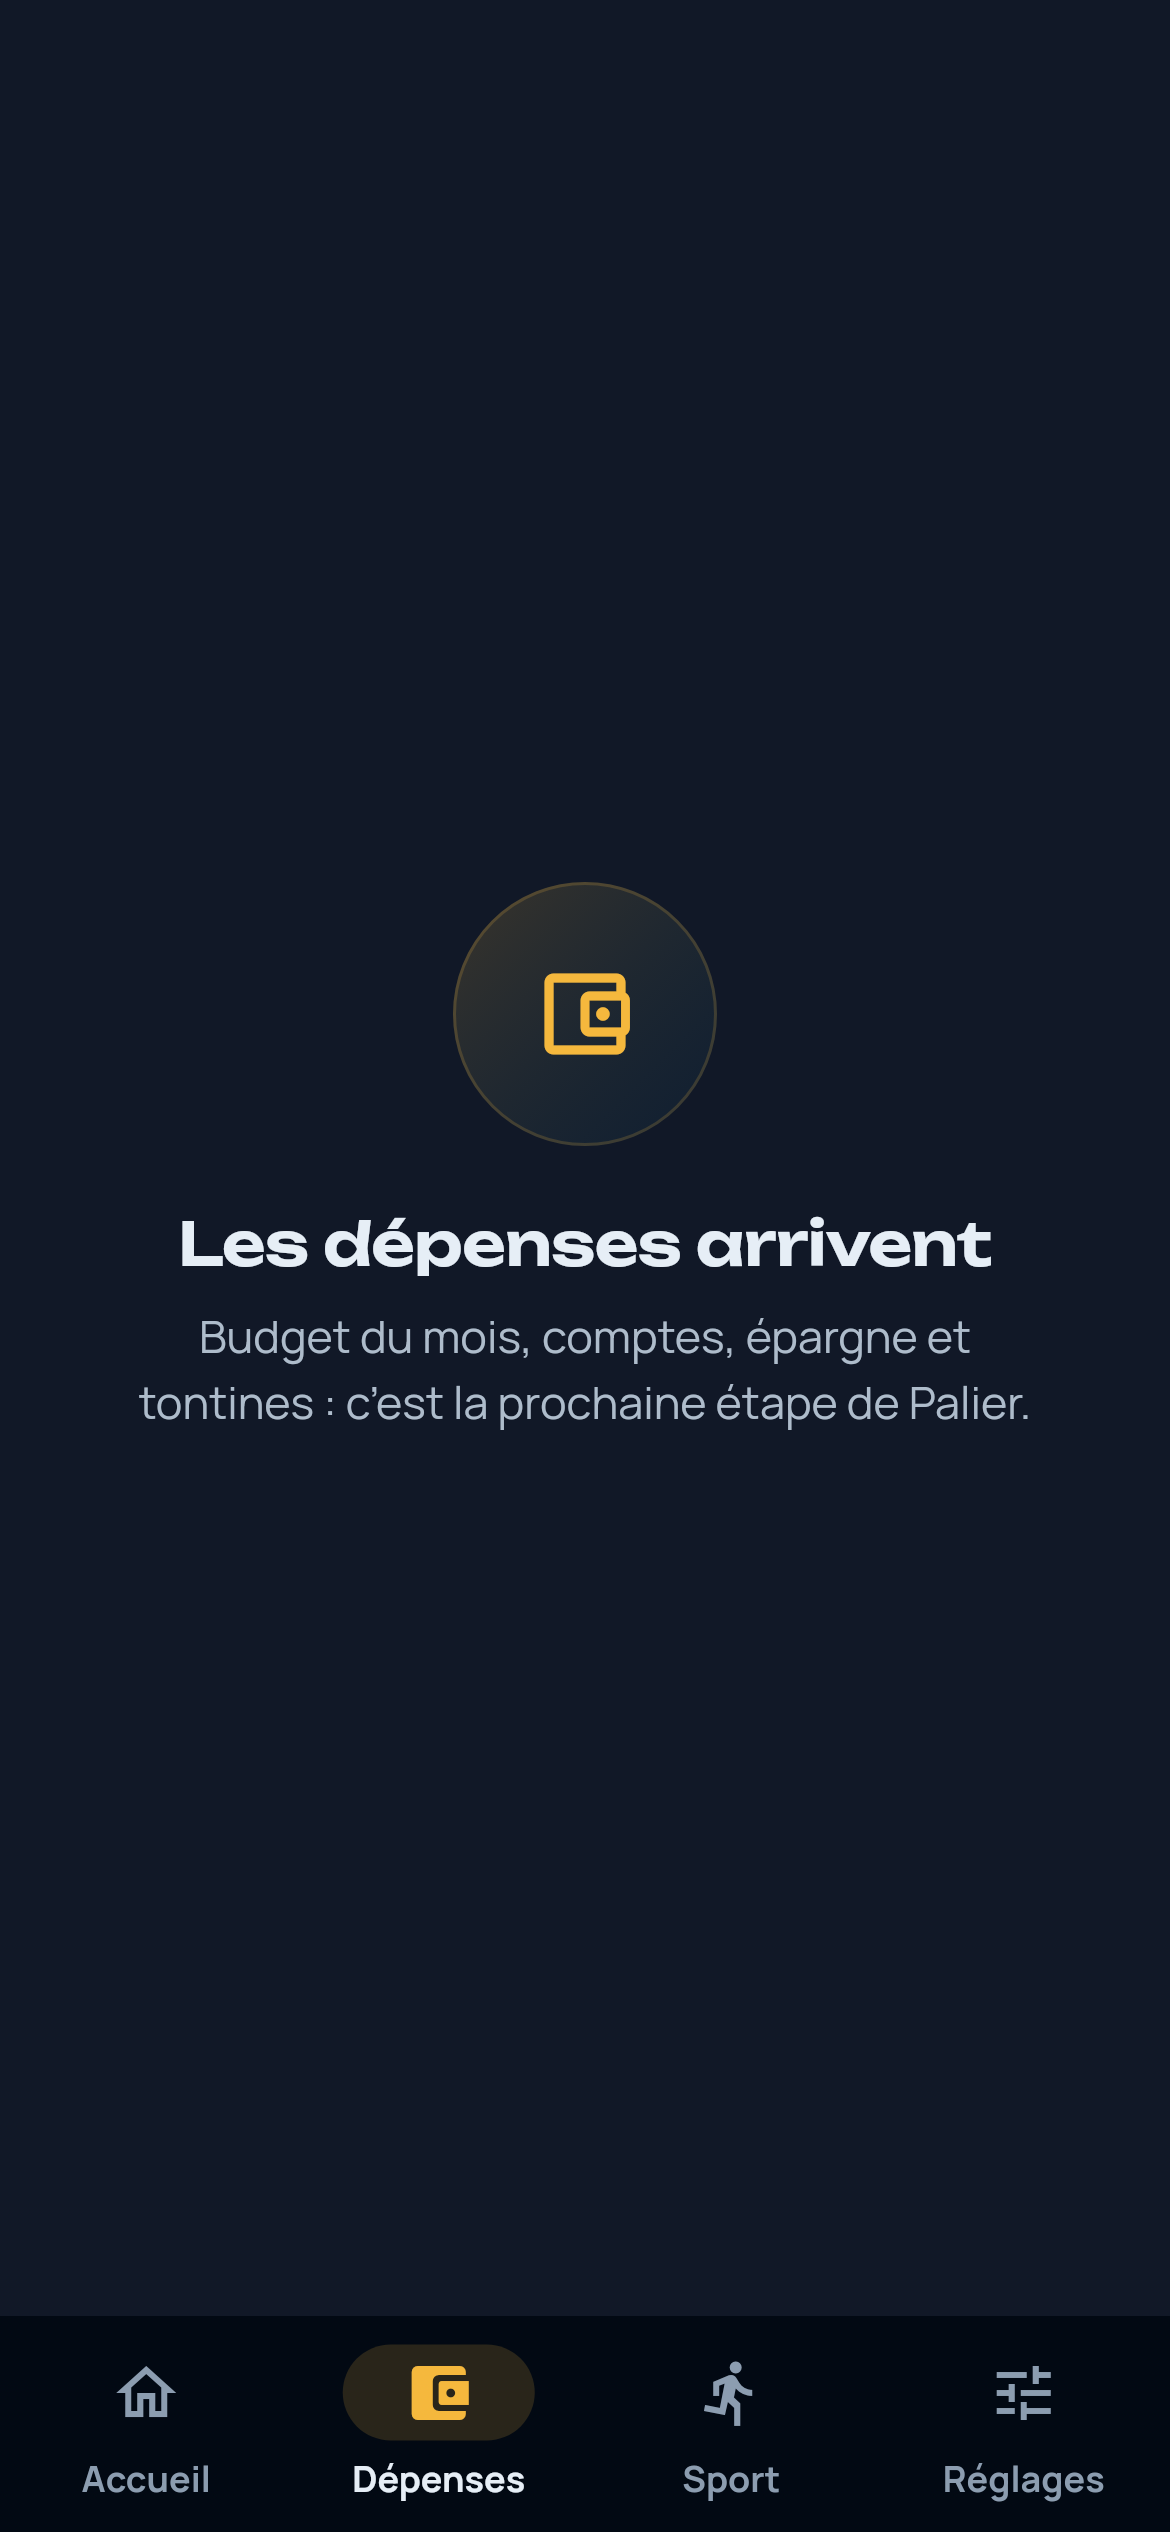
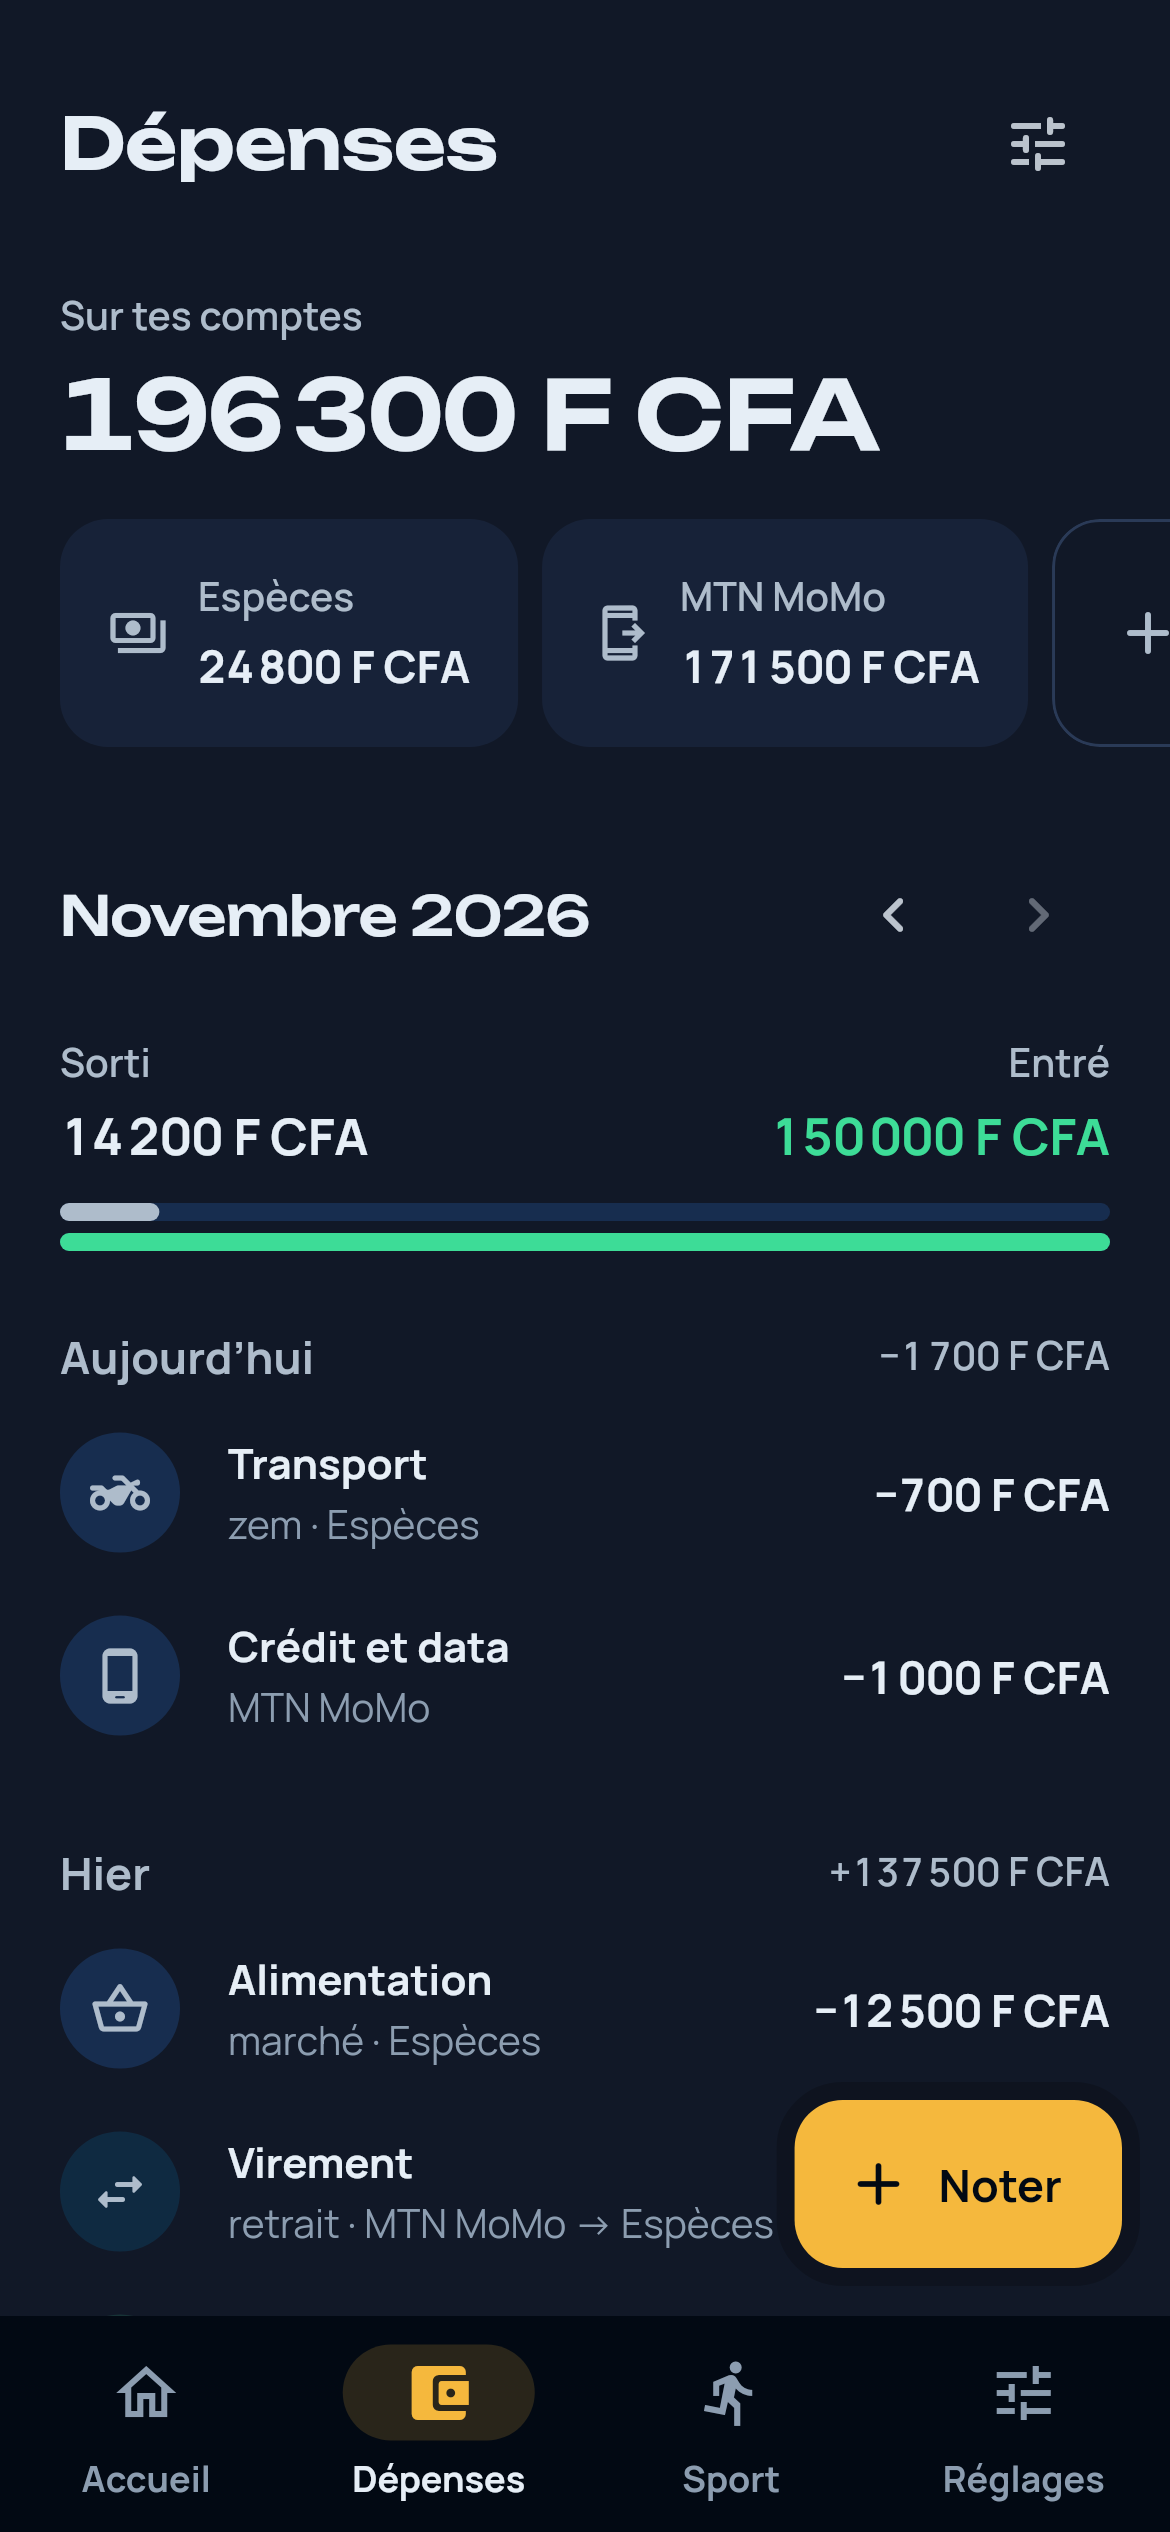
docs: montrer les dépenses dans le README et les captures
Mois fictif de Kofi (aucune donnée réelle) : salaire, retrait MoMo,
marché, zem, crédit.

diff --git a/test/captures/captures_test.dart b/test/captures/captures_test.dart
@@ -3,7 +3,11 @@ library;
 
 import 'package:flutter/material.dart';
 import 'package:flutter_test/flutter_test.dart';
+import 'package:palier/app/providers.dart';
 import 'package:palier/app/theme/palier_accent.dart';
+import 'package:palier/features/expenses/domain/expense_kinds.dart';
+import 'package:palier/features/expenses/domain/expenses.dart';
+import 'package:palier/features/expenses/ui/amount_pad.dart';
 import 'package:palier/features/profiles/data/profiles_repository.dart';
 import 'package:palier/features/profiles/domain/profile.dart';
 
@@ -80,9 +84,77 @@ void main() {
     await tester.tap(find.text('Sauvegarde'));
     await app.settle(tester);
     await capture(tester, '08-sauvegarde');
+  });
 
+  testWidgets('dépenses, saisie, comptes', (tester) async {
+    final app = await TestApp.pump(tester, seed: family);
+    await tester.tap(find.text('Kofi'));
+    await app.settle(tester);
+    await tester.runAsync(() => _kofiMonth(app));
     await tester.tap(find.text('Dépenses'));
     await app.settle(tester);
     await capture(tester, '09-depenses');
+
+    await tester.tap(find.text('Noter'));
+    await app.settle(tester);
+    for (final key in ['3', '5']) {
+      await tester.tap(find.descendant(of: find.byType(AmountPad), matching: find.text(key)));
+      await tester.pump();
+    }
+    await tester.tap(find.descendant(of: find.byType(AmountPad), matching: find.bySemanticsLabel('Trois zéros')));
+    await tester.tap(find.text('Alimentation'));
+    await app.settle(tester);
+    await capture(tester, '10-noter');
+
+    await tester.tap(find.byTooltip('Fermer'));
+    await app.settle(tester);
+    await tester.tap(find.byTooltip('Comptes et catégories'));
+    await app.settle(tester);
+    await tester.tap(find.text('Comptes').last);
+    await app.settle(tester);
+    await capture(tester, '11-comptes');
   });
+}
+
+/// Un mois fictif de Kofi : deux comptes, un salaire, quelques dépenses, un virement.
+Future<void> _kofiMonth(TestApp app) async {
+  final repo = app.container.read(expensesRepositoryProvider);
+  final kofi = (await app.profiles.watchAll().first).firstWhere((p) => p.name == 'Kofi').id;
+  await repo.ensureStarterKit(kofi);
+  final cash = (await repo.watchAccounts(kofi).first).single;
+  await repo.updateAccount(cash.id, const AccountDraft(name: 'Espèces', openingBalance: 18000));
+  final momo = await repo.createAccount(
+    kofi,
+    const AccountDraft(name: 'MTN MoMo', kind: AccountKind.mobileMoney, openingBalance: 42500),
+  );
+  final categories = {for (final c in await repo.watchCategories(kofi).first) c.name: c.id};
+  final now = DateTime.now();
+  DateTime at(int daysAgo, int hour) => DateTime(now.year, now.month, now.day - daysAgo, hour);
+
+  Future<void> add(
+    OperationKind kind,
+    int amount,
+    String account,
+    DateTime when, {
+    String? category,
+    String? to,
+    String? note,
+  }) => repo.addOperation(
+    kofi,
+    OperationDraft(
+      kind: kind,
+      amount: amount,
+      accountId: account,
+      toAccountId: to,
+      categoryId: category == null ? null : categories[category],
+      note: note,
+      occurredAt: when,
+    ),
+  );
+
+  await add(OperationKind.income, 150000, momo.id, at(1, 9), category: 'Salaire');
+  await add(OperationKind.transfer, 20000, momo.id, at(1, 12), to: cash.id, note: 'retrait');
+  await add(OperationKind.expense, 12500, cash.id, at(1, 18), category: 'Alimentation', note: 'marché');
+  await add(OperationKind.expense, 1000, momo.id, at(0, 8), category: 'Crédit et data');
+  await add(OperationKind.expense, 700, cash.id, at(0, 9), category: 'Transport', note: 'zem');
 }

diff --git a/README.md b/README.md
@@ -14,6 +14,12 @@ pas de serveur, pas de publicité.
   <img src="docs/captures/05-accueil.png" width="220" alt="Accueil d'un profil">
 </p>
 
+<p align="center">
+  <img src="docs/captures/09-depenses.png" width="220" alt="Dépenses du mois">
+  <img src="docs/captures/10-noter.png" width="220" alt="Noter une dépense">
+  <img src="docs/captures/11-comptes.png" width="220" alt="Comptes et soldes">
+</p>
+
 ## Ce que fait Palier
 
 Chaque membre de la famille a son profil : son prénom, sa couleur, sa devise, les modules qu'il
@@ -22,7 +28,7 @@ suit, et son propre verrou.
 | Lot | Contenu | État |
 |---|---|---|
 | 1. Socle et profils | Profils personnalisés, profil d'enfant, code à 4-6 chiffres avec blocage progressif, empreinte, verrouillage après une minute en arrière-plan, export et import chiffrés | Fait |
-| 2. Dépenses | Saisie rapide, comptes (espèces, Mobile Money, banque), budgets, dépenses récurrentes, prévision de fin de mois, épargne, tontines et prêts | À venir |
+| 2. Dépenses | Saisie rapide, comptes (espèces, Mobile Money, banque), budgets, dépenses récurrentes, prévision de fin de mois, épargne, tontines et prêts | En cours : saisie, comptes, catégories et soldes faits |
 | 3. Sport | Programme selon les réglages du profil, séances guidées, suivi des progrès | À venir |
 | 4. Progression | Habitudes, objectifs par étapes, bilan de la semaine | À venir |
 | 5. Options Android | Lecture des SMS Mobile Money (désactivée par défaut), nombre de pas | À venir |
